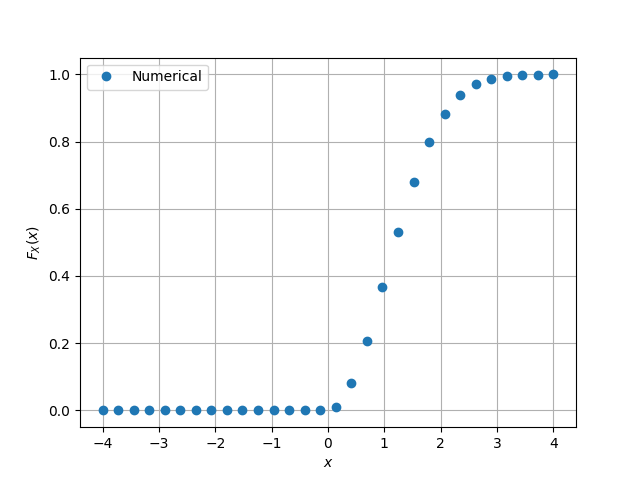
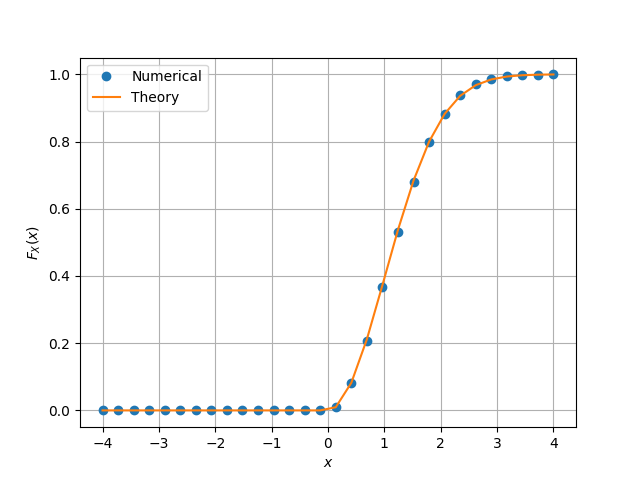
Ds

diff --git a/Randomnum/codes/6.3pdf.py b/Randomnum/codes/6.3pdf.py
@@ -1,0 +1,45 @@
+#Importing numpy, scipy, mpmath and pyplot
+import numpy as np
+import mpmath as mp
+import scipy 
+import matplotlib.pyplot as plt
+
+
+maxrange=50
+maxlim=6.0
+x = np.linspace(-maxlim,maxlim,maxrange)#points on the x axis
+simlen = int(1e6) #number of samples
+err = [] #declaring probability list
+pdf = [] #declaring pdf list
+h = 2*maxlim/(maxrange-1);
+#randvar = np.random.normal(0,1,simlen)
+#randvar = np.loadtxt('uni.dat',dtype='double')
+randvar = np.loadtxt('gausquare.dat',dtype='double')
+randvar=np.sqrt(randvar)
+for i in range(0,maxrange):
+	err_ind = np.nonzero(randvar < x[i]) #checking probability condition
+	err_n = np.size(err_ind) #computing the probability
+	err.append(err_n/simlen) #storing the probability values in a list
+
+	
+for i in range(0,maxrange-1):
+	test = (err[i+1]-err[i])/(x[i+1]-x[i])
+	pdf.append(test) #storing the pdf values in a list
+
+def rootsumofgau(x):
+    if(x>=0 ):
+    	return x*mp.exp(-(x*x)/2)
+    else:
+        return 0
+theory=np.vectorize(rootsumofgau,otypes=['double'])
+
+plt.plot(x[0:(maxrange-1)].T,pdf,'o')
+plt.plot(x,theory(x))
+plt.grid() #creating the grid
+plt.xlabel('$x_i$')
+plt.ylabel('$p_X(x_i)$')
+plt.legend(["Numerical","Theory"])
+
+
+plt.show() #opening the plot window
+

diff --git a/Randomnum/codes/6.3cdf.py b/Randomnum/codes/6.3cdf.py
@@ -1,0 +1,32 @@
+#Importing numpy, scipy, mpmath and pyplot
+import numpy as np
+import matplotlib.pyplot as plt
+import mpmath as mp
+
+
+x = np.linspace(-4,4,30)#points on the x axis
+simlen = int(1e6) #number of samples
+err = [] #declaring probability list
+#randvar = np.random.normal(0,1,simlen)
+randvar = np.loadtxt('gausquare.dat',dtype='double')
+randvar=np.sqrt(randvar)
+#randvar = np.loadtxt('gau.dat',dtype='double')
+for i in range(0,30):
+	err_ind = np.nonzero(randvar < x[i]) #checking probability condition
+	err_n = np.size(err_ind) #computing the probability
+	err.append(err_n/simlen) #storing the probability values in a list
+
+def rootsumofgau(x):
+ if(x < 0):
+    return 0
+ else:
+    return 1-mp.exp(-(x**2)/2)
+theory=np.vectorize(rootsumofgau,otypes=['double'])
+plt.plot(x.T,err,'o')#plotting the CDF
+plt.plot(x,theory(x))
+plt.grid() #creating the grid
+plt.xlabel('$x$')
+plt.ylabel('$F_X(x)$')
+plt.legend(["Numerical","Theory"])
+
+plt.show() #opening the plot window
